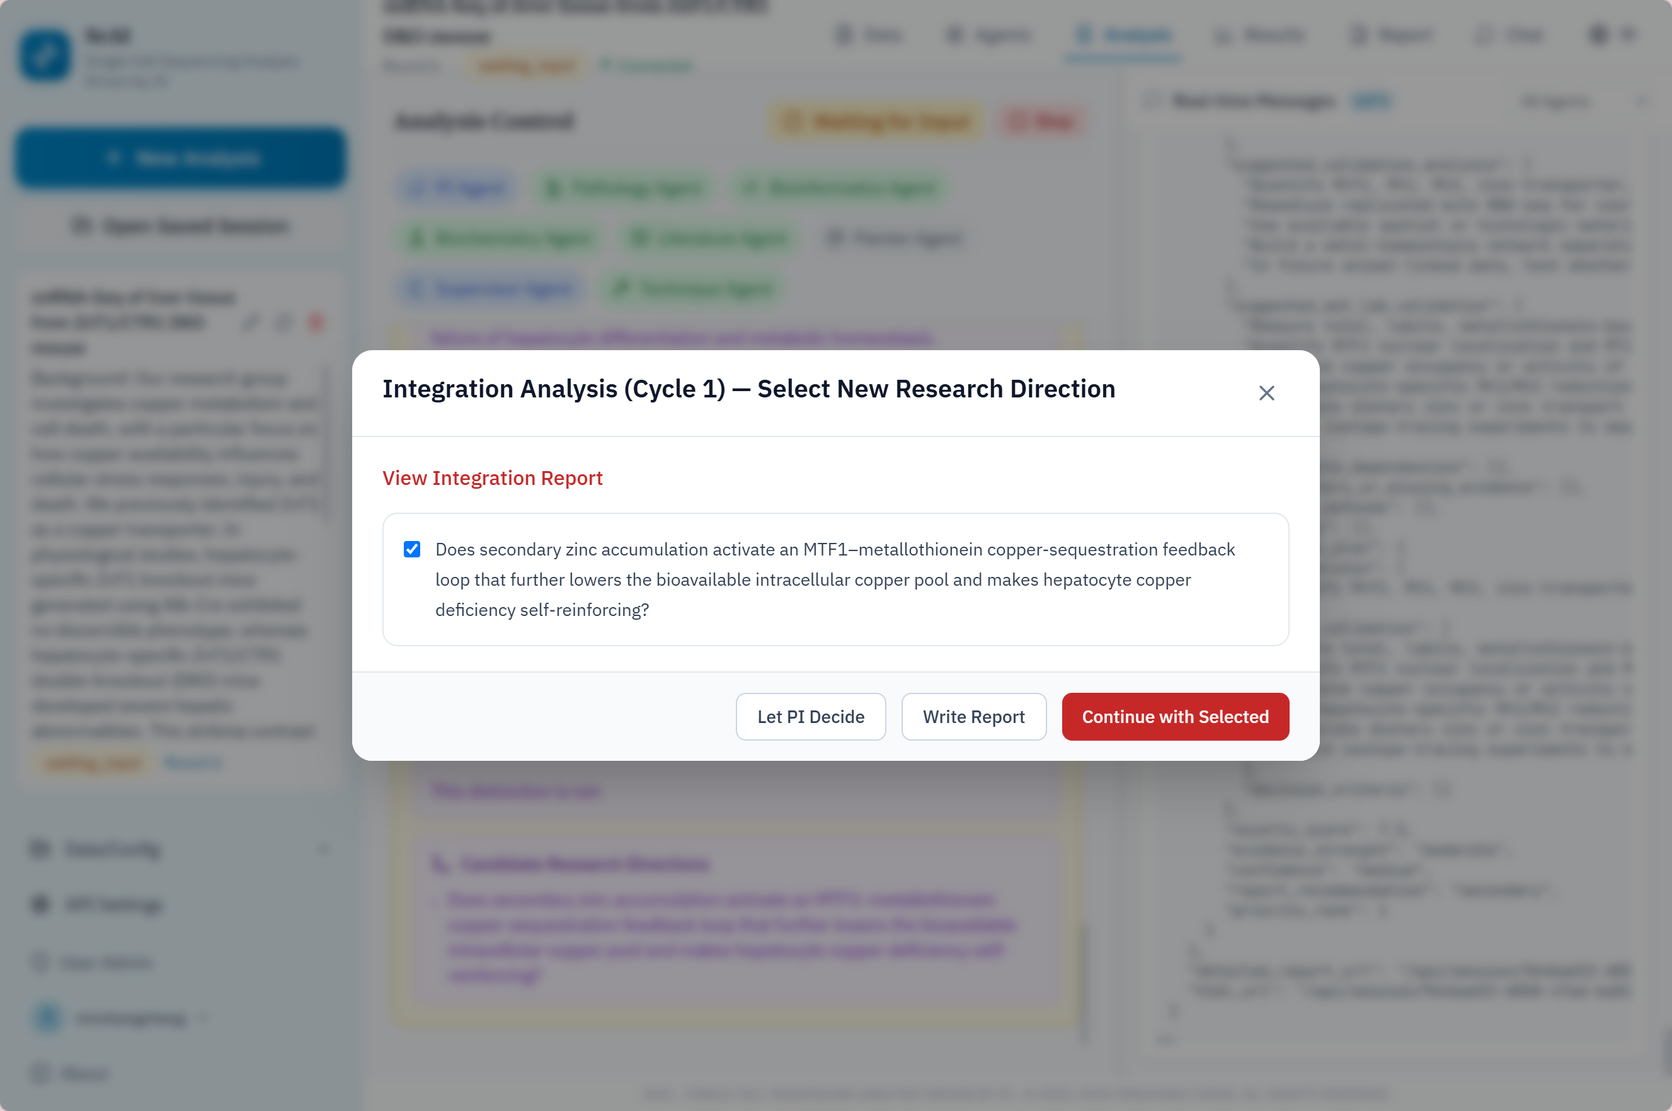
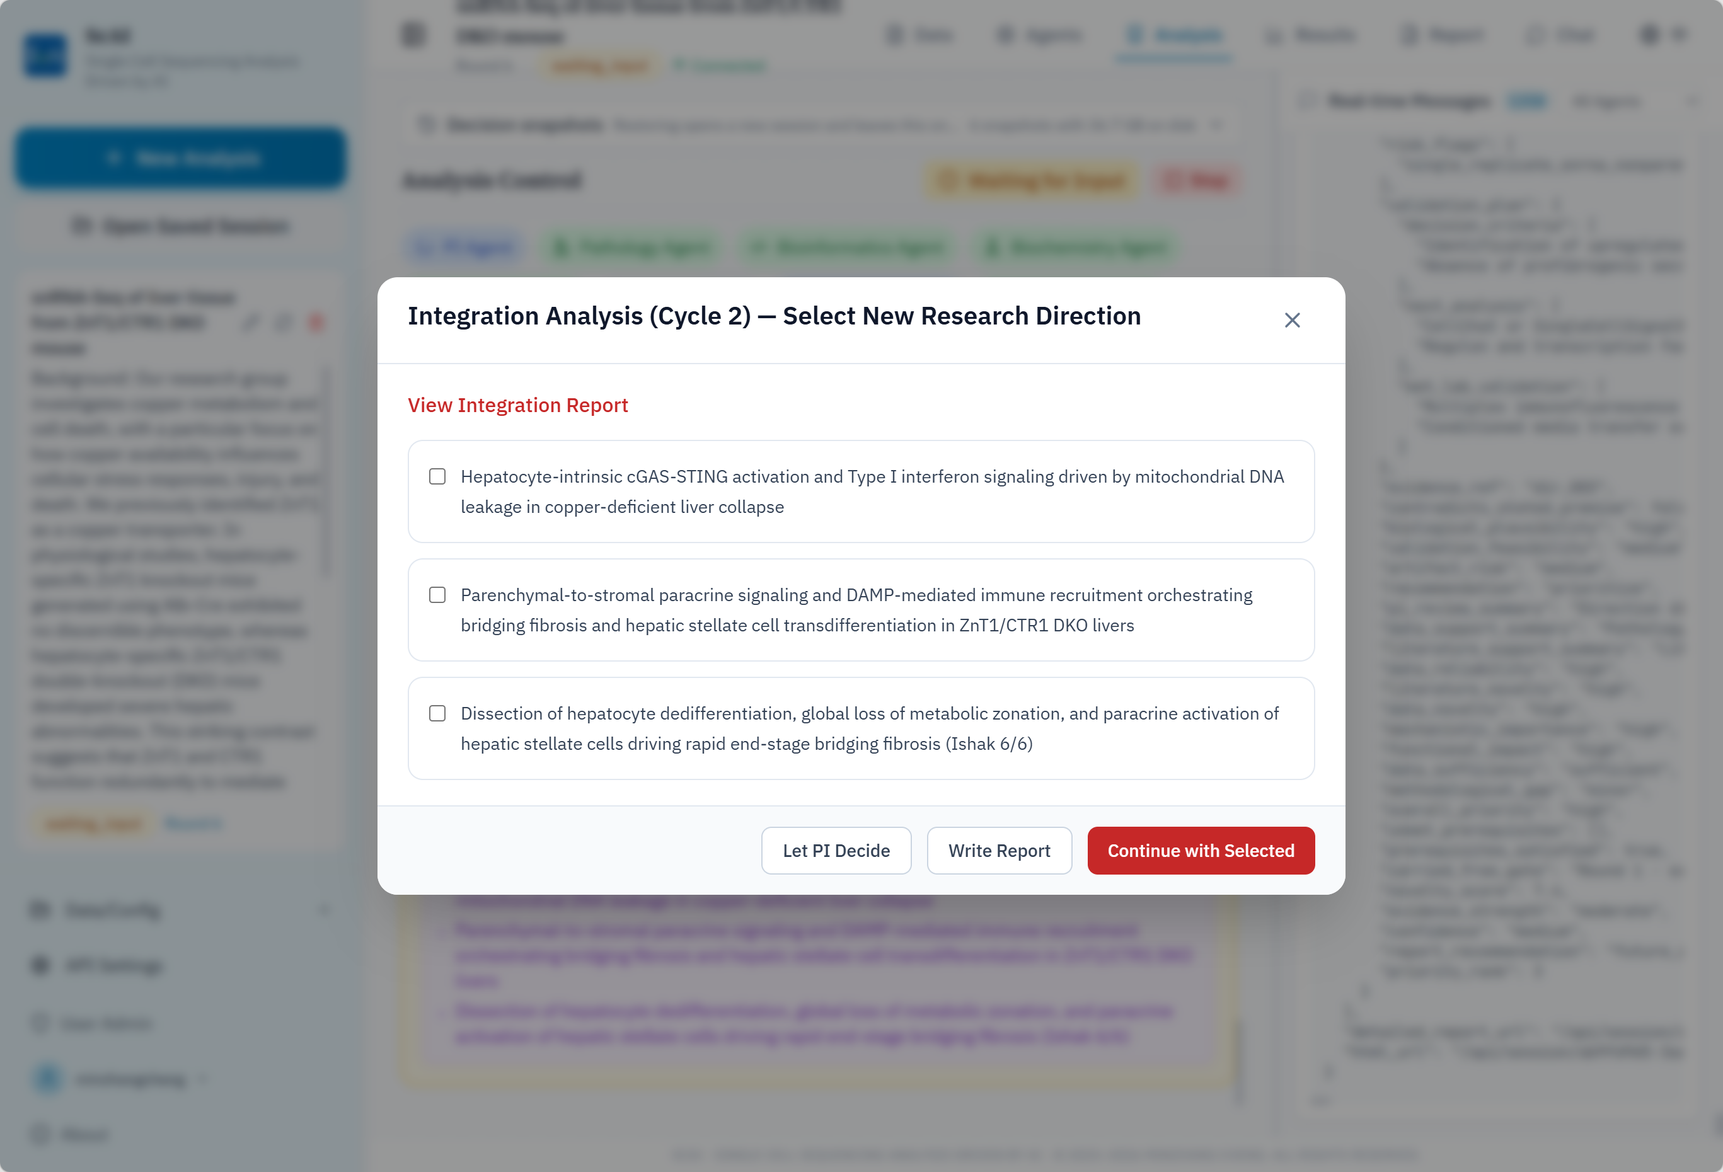
ver 0.63.14

diff --git a/backend/constants.py b/backend/constants.py
@@ -5,7 +5,7 @@ action enums, and LLM failure intervention constants.
 """
 from enum import Enum
 
-VERSION = "0.63.13"
+VERSION = "0.63.14"
 
 
 # ── Authoritative graph node registry — single source of truth ─────

diff --git a/clients/python/scai_client/__init__.py b/clients/python/scai_client/__init__.py
@@ -45,4 +45,4 @@ __all__ = [
 ]
 # The client follows the application release version rather than maintaining
 # an independent release line.
-__version__ = "0.63.13"
+__version__ = "0.63.14"

diff --git a/docs/user-guide.md b/docs/user-guide.md
@@ -159,14 +159,20 @@ While the analysis runs:
 
 ### Respond to model or agent failures
 
-If an agent or model repeatedly fails, ScAI can present **Retry**, **Modify Agent Settings**, **Skip**, and **Terminate**, depending on the failure:
+If an upstream model provider returns an error, a connection fails, or a model produces unusable output, ScAI may pause the analysis and open a failure decision dialog.
+
+![Model failure details and recovery actions](images/error_processing.png)
+
+Check the **Agent**, **Model**, and **LLM Server**, then expand **Error Details** to identify the cause. The screenshot shows an incomplete plan JSON response; provider availability, credentials, and output-format problems require different corrections. The dialog title can vary with the failure type, for example **LLM Call Failed** or **Invalid Model Output**.
+
+Choose the appropriate action from those offered:
 
 - **Retry** reruns the failed operation. Use it for a transient provider or connectivity problem, or after correcting the relevant agent settings.
 - **Modify Agent Settings** opens the configuration needed to correct a model, endpoint, credential, or disabled core agent. Save the correction before returning to retry the step.
 - **Skip** continues without that operation's result. Use it only if the missing contribution is nonessential, and record the resulting limitation.
-- **Terminate** ends the workflow. Use it when continuing would be scientifically invalid, unsafe, or unnecessarily costly.
+- **Terminate Analysis** ends the workflow. Use it when continuing would be scientifically invalid, unsafe, or unnecessarily costly.
 
-Some failure dialogs automatically choose **Skip** when a finite timer expires. Address failures promptly, and use manual wait when skipping a core or scientifically essential step would invalidate the analysis. Marker-resource and species-resolution dialogs may offer different actions; follow the specific dialog rather than assuming every failure has the same options.
+These failure decisions do not use the routine **Round Wait Time** to automatically skip a failed operation. ScAI may first make a limited number of automatic retries for retryable failures; unresolved failures then wait for an explicit user action. Closing the dialog leaves the failure unresolved; click the corresponding failure badge in the analysis controls to reopen it. Marker-resource and species-resolution dialogs may offer different actions; follow the specific dialog rather than assuming every failure has the same options.
 
 ## Human-in-the-Loop Decisions
 
@@ -206,7 +212,13 @@ You can confirm a cluster, edit its label, and then confirm all annotations. In 
 
 ![Editing a proposed cell annotation](images/cell-annot-modify.png)
 
-Select **Request More Analysis** when the evidence is insufficient. Describe a bounded supplementary task, such as comparing marker expression for two plausible labels, checking cluster-specific differential expression, or consulting relevant literature. Reassess the updated evidence before confirming. Annotation labels remain analytical interpretations and should be validated independently when they support a central claim.
+Select **Request More Analysis** when the evidence is insufficient. This opens **Request Supplementary Analysis** while you are reviewing cell annotations.
+
+![Requesting supplementary analysis during cell annotation review](images/addition_analysis.png)
+
+Describe a bounded supplementary task, including the relevant cluster IDs and the question to resolve, such as comparing marker expression for two plausible labels, checking cluster-specific differential expression, or consulting relevant literature. Select **Submit** to send the request; the PI coordinates agents to perform the supplementary work and update the review report. **Cancel** returns to annotation review without submitting the request.
+
+Reassess the updated evidence before confirming. Annotation labels remain analytical interpretations and should be validated independently when they support a central claim.
 
 ### Select research directions
 
@@ -245,9 +257,15 @@ The browser countdown pauses when you begin typing or add a file, and it can als
 
 After a batch of research directions, ScAI may synthesize cross-direction evidence and ask whether to continue with integration candidates or finalize the analysis.
 
-![Cross-direction integration review](images/integrate.png)
+![Integration research-direction selection and report controls](images/integrate.png)
 
-Review the integration report when available. Select one or more candidates and continue, finalize the current analysis, or let the PI decide. If the integration countdown expires, the PI-decision path is used. Treat cross-direction links as hypotheses unless the data and external evidence establish otherwise.
+Select **View Integration Report** when available to review the synthesis before choosing the next action:
+
+- **Continue with Selected**: check one or more candidate directions, then continue with those directions.
+- **Write Report**: finalize the current analysis and proceed to reporting.
+- **Let PI Decide**: ask the PI to decide whether to continue or finalize.
+
+If the integration countdown expires, the PI-decision path is used. Treat cross-direction links as hypotheses unless the data and external evidence establish otherwise.
 
 ### Go back to an earlier decision
 
@@ -256,7 +274,15 @@ Review the integration report when available. Select one or more candidates and 
 
 If your administrator enabled snapshots, the analysis panel lists a restore point taken immediately before each decision above: confirming the cell annotation, choosing a research direction, choosing again after integration, and accepting a round.
 
+Open **Analysis** and expand **Decision snapshots**. The header shows the snapshot count and total disk usage; each entry shows its round, decision point, capture time, size, and importance rank.
+
+![Decision snapshots in Analysis with restore and delete controls](images/snapshot.png)
+
 **Restore into a new session** opens a copy of the analysis as it stood just before that decision, waiting at the same dialog so you can answer differently. The session you are looking at is not changed, keeps running, and keeps all of its snapshots — so you can try a second direction without giving up the first.
+
+Wait for the new session to be created and opened, then review the decision dialog and submit your choice. If the list shows **Restored into** links, use them to reopen sessions previously created from that snapshot.
+
+Select **Delete** beside a snapshot to remove that restore point when it is no longer needed. Deletion is immediate, and that snapshot can no longer be used for restoration. The current analysis, other snapshots, and sessions already restored from it remain available.
 
 Three things a restored session does not have. It carries no reports; those belong to the run that produced them, and the restored copy has not reached that point. It may be missing values the original could not serialise, which the list shows as a count. And whatever automatic skip time the original was running under, the restored session waits for you rather than deciding on its own.
 
@@ -297,6 +323,22 @@ Before sharing or citing a report:
 - State limitations introduced by skipped agents, failed steps, missing modalities, uncertain annotations, or incomplete metadata.
 - Separate exploratory associations from validated mechanisms and causal conclusions.
 - Have an appropriately qualified researcher review the final scientific interpretation.
+
+## Discuss Results and Request Follow-up Work in Chat
+
+Open **Chat** in the current session to ask the PI about the analysis, clarify findings, or request follow-up work based on existing results. You can also use it after the main analysis has completed.
+
+![Chat workspace with a follow-up request and real-time agent activity](images/chat.png)
+
+Describe the question, relevant results or figures, requested output, and any limits on the work. For example, ask the PI to compare two interpretations, check a particular result, or prepare an additional figure from existing data. The PI can answer directly or coordinate specialist agents when the request requires analysis.
+
+Use the composer controls as follows:
+
+- Enter your message and select **Send**, or press **Enter**. Use **Shift+Enter** for a new line.
+- Use the paperclip to attach supplementary files. The **PI (auto-dispatch)** selector sets the default target for new attachments; you can choose a specialist and review each file's agent, group, sample, and data type before sending.
+- Follow the conversation and the **Real-time Messages** panel to inspect agent activity and execution output. While a request is running, the red stop button can stop the current chat request.
+
+Review any new findings and figures against the underlying evidence before using them in a report.
 
 ## Practical Checklist and Troubleshooting
 

diff --git a/docs/user-guide-cn.md b/docs/user-guide-cn.md
@@ -159,14 +159,20 @@ ScAI 会依次推进多个协同阶段。早期探索通常侧重数据检查、
 
 ### 响应模型或智能体失败
 
-如果智能体或模型反复失败，根据失败类型，ScAI 可提供 `Retry`（重试）、`Modify Agent Settings`（修改智能体设置）、`Skip`（跳过）和 `Terminate`（终止）：
+如果上游模型提供商返回错误、网络连接失败，或模型生成了无法使用的输出，ScAI 可能暂停分析并打开失败处理对话框。
+
+![模型失败详情和处理操作](images/error_processing.png)
+
+请检查 `Agent`（智能体）、`Model`（模型）和 `LLM Server`（LLM 服务器），然后展开 `Error Details`（错误详情）确定原因。截图展示的是计划 JSON 响应不完整；提供商服务可用性、凭据和输出格式问题需要采取不同的修正措施。对话框标题会随失败类型变化，例如 `LLM Call Failed`（LLM 调用失败）或 `Invalid Model Output`（模型输出无效）。
+
+请从对话框提供的操作中选择合适的处理方式：
 
 - `Retry`：重新运行失败的操作。适用于提供商或网络连接的暂时性问题，或已修正相关智能体设置后。
 - `Modify Agent Settings`：打开修正模型、端点、凭据或被禁用核心智能体所需的配置。保存修正后，再返回并重试该步骤。
 - `Skip`：在缺少该操作结果的情况下继续。仅当缺失内容并非必要时使用，并应记录由此造成的局限性。
-- `Terminate`：结束工作流。当继续分析会导致科学上无效、不安全或不必要的成本时使用。
+- `Terminate Analysis`（终止分析）：结束工作流。当继续分析会导致科学上无效、不安全或不必要的成本时使用。
 
-某些失败对话框会在有限计时器到期时自动选择 `Skip`。请及时处理失败；如果跳过核心步骤或科学上必不可少的步骤会使分析无效，请使用手动等待。标志物资源和物种判定对话框可能提供不同操作；请遵循具体对话框，而不要假设所有失败都具有相同选项。
+这些失败处理决策不会依据常规的 `Round Wait Time` 自动跳过失败操作。对于可重试的错误，ScAI 可能先进行有限次数的自动重试；仍未解决的失败随后会等待用户明确选择处理方式。关闭对话框后，失败仍未解决；可点击分析控制区域中对应的失败状态标记重新打开。标志物资源和物种判定对话框可能提供不同操作；请遵循具体对话框，而不要假设所有失败都具有相同选项。
 
 ## 人机协同决策
 
@@ -206,7 +212,13 @@ ScAI 会依次推进多个协同阶段。早期探索通常侧重数据检查、
 
 ![编辑建议的细胞注释](images/cell-annot-modify.png)
 
-证据不足时，请选择 `Request More Analysis`（请求更多分析）。描述一个边界明确的补充任务，例如比较两个合理标签的标志物表达、检查聚类特异性差异表达，或查阅相关文献。确认前应重新评估更新后的证据。注释标签仍属于分析性解释；如果它们支撑核心结论，应进行独立验证。
+证据不足时，请选择 `Request More Analysis`（请求更多分析）。这会在细胞注释审阅过程中打开 `Request Supplementary Analysis`（请求补充分析）对话框。
+
+![在细胞注释审阅过程中请求补充分析](images/addition_analysis.png)
+
+请描述一个边界明确的补充任务，注明相关聚类 ID 和需要解决的问题，例如比较两个合理标签的标志物表达、检查聚类特异性差异表达，或查阅相关文献。选择 `Submit`（提交）发送请求，PI 会协调智能体执行补充工作并更新审阅报告。选择 `Cancel`（取消）则返回注释审阅，不提交请求。
+
+确认前应重新评估更新后的证据。注释标签仍属于分析性解释；如果它们支撑核心结论，应进行独立验证。
 
 ### 选择研究方向
 
@@ -245,9 +257,15 @@ ScAI 会依次推进多个协同阶段。早期探索通常侧重数据检查、
 
 完成一批研究方向后，ScAI 可能会综合跨方向证据，并询问是继续研究整合候选方向，还是完成当前分析。
 
-![跨方向整合审阅](images/integrate.png)
+![整合研究方向选择和报告操作](images/integrate.png)
 
-如果有整合报告，请进行审阅。选择一个或多个候选方向并继续、完成当前分析，或让 PI 决定。如果整合倒计时结束，将采用 PI 决策路径。除非数据和外部证据能够证实，否则应将跨方向关联视为假设。
+如果提供 `View Integration Report`（查看整合报告），请先打开并审阅综合结果，再选择后续操作：
+
+- `Continue with Selected`（继续所选方向）：勾选一个或多个候选方向，然后继续研究这些方向。
+- `Write Report`（撰写报告）：完成当前分析并进入报告生成流程。
+- `Let PI Decide`（由 PI 决定）：请 PI 决定继续分析还是完成当前分析。
+
+如果整合倒计时结束，将采用 PI 决策路径。除非数据和外部证据能够证实，否则应将跨方向关联视为假设。
 
 ### 回到更早的决策
 
@@ -256,7 +274,15 @@ ScAI 会依次推进多个协同阶段。早期探索通常侧重数据检查、
 
 如果管理员启用了快照，分析面板会列出上述每个决策**之前**留下的还原点：确认细胞注释、选择研究方向、整合分析后再次选择方向、验收本轮结果。
 
+打开 `Analysis`（分析）页面并展开 `Decision snapshots`（决策快照）。标题栏显示快照数量和总磁盘占用；每条记录显示轮次、决策节点、捕获时间、大小和重要性排序。
+
+![分析页面中的决策快照及恢复、删除操作](images/snapshot.png)
+
 `Restore into a new session`（恢复到新会话）会打开该决策之前那一刻的分析副本，并停在同一个对话框上，供您做出不同的选择。当前正在查看的会话不会有任何改动，仍可继续运行，其全部快照也都保留 —— 因此您可以在不放弃第一个方向的前提下尝试第二个。
+
+请等待新会话创建并打开，再审阅决策对话框并提交选择。如果列表显示 `Restored into`（已恢复为）链接，可通过它重新打开此前从该快照创建的会话。
+
+不再需要某个还原点时，选择该快照旁的 `Delete`（删除）。删除会立即执行，此后无法再通过该快照恢复。当前分析、其他快照和此前从该快照恢复出的会话仍然可用。
 
 恢复出的会话有三点需要注意。它不包含报告，因为报告属于生成它们的那次运行，而恢复出的副本尚未走到那一步。它可能缺少原会话无法序列化的值，列表中会给出数量。此外，无论原会话设置了怎样的自动跳过时间，恢复出的会话都会等待您来决定，而不会自行决定。
 
@@ -297,6 +323,22 @@ ScAI 会依次推进多个协同阶段。早期探索通常侧重数据检查、
 - 说明跳过智能体、步骤失败、模态缺失、注释不确定或元数据不完整所造成的局限性。
 - 区分探索性关联与已验证的机制及因果结论。
 - 请具备相应资质的研究人员审阅最终科学解释。
+
+## 在 Chat 中讨论结果和请求后续工作
+
+在当前会话中打开 `Chat`（聊天），向 PI 询问分析过程、澄清研究发现，或基于已有结果请求后续工作。主分析完成后也可以使用此页面。
+
+![包含后续分析请求和智能体实时活动的 Chat 工作区](images/chat.png)
+
+请说明问题、相关结果或图形、期望输出以及工作范围限制。例如，请 PI 比较两种解释、核查某项结果，或利用已有数据补充图形。PI 可以直接回答，也可以在请求需要分析时协调专业智能体执行。
+
+输入区域的操作方式如下：
+
+- 输入消息后选择 `Send`（发送），或按 **Enter** 发送。使用 **Shift+Enter** 换行。
+- 使用回形针按钮添加补充文件。`PI (auto-dispatch)`（PI 自动分派）选择器设置新附件的默认目标智能体；也可选择专业智能体，并在发送前核对每个文件的智能体、组别、样本和数据类型。
+- 查看对话和右侧 `Real-time Messages`（实时消息）面板，检查智能体活动和执行输出。请求运行期间，可使用红色停止按钮停止当前聊天请求。
+
+将新发现和图形用于报告前，请根据底层证据进行审阅。
 
 ## 实用核对清单与故障排除
 

diff --git a/docs/HANDOVER.md b/docs/HANDOVER.md
@@ -2,7 +2,7 @@
 
 Architecture, module map, and developer guide for contributors. For end-user workflow, see the [User Guide](user-guide.md); for installation and the project overview, see the [README](../README.md).
 
-**Version**: 0.63.13 · **Last updated**: 2026-10-01
+**Version**: 0.63.14 · **Last updated**: 2026-10-01
 
 ## 1. Runtime Architecture
 
@@ -369,6 +369,15 @@ identify the annotation failure and omit unrelated model/server configuration.
 Detailed release notes for every version are available through `git log` and release tags. For versions before 0.30.1, changes are summarized by major version group; from 0.30.1 onward, each version is documented individually. The summary below highlights the architectural arc of the project.
 
 **0.63.x — (2026-09-28 onward)**
+
+- `0.63.14` — Updates the English and Chinese user guides with screenshots and
+  instructions for Chat follow-up requests, decision-snapshot restoration and
+  deletion, supplementary analysis during cell-annotation review, and model or
+  provider failure recovery. Refreshes the integration-review screenshot and
+  documents its report, direction-selection, and PI-decision controls. Failure
+  guidance distinguishes provider errors from invalid model output and explains
+  explicit resolution of unresolved failures. Synchronizes application, client,
+  and documentation versions and administrator build examples.
 
 - `0.63.13` — Corrects planner JSON/schema failure attribution. Host-generated
   diagnostics remain distinct from model-supplied `parse_error` fields through

diff --git a/docs/admin-manual-zh.md b/docs/admin-manual-zh.md
@@ -316,8 +316,8 @@ docker build -t ghcr.io/minzhangcheng/scai:latest .
 ```
 
 ```bash
-./build.sh --version 0.63.13
-./build.sh --version 0.63.13 --push
+./build.sh --version 0.63.14
+./build.sh --version 0.63.14 --push
 ```
 
 如果未指定 `--version`，辅助脚本使用 `git describe --tags --abbrev=0` 返回的最新 Git 标签；如果不存在标签，则使用 `latest`。`--push` 会将两个标签推送到 `ghcr.io/minzhangcheng/scai`；使用前请先向该注册表进行 Docker 身份验证。该辅助脚本不接受注册表、镜像名称、平台或构建参数 flags。

diff --git a/docs/admin-manual.md b/docs/admin-manual.md
@@ -358,8 +358,8 @@ The release helper always builds both the selected tag and `latest`:
 ```
 
 ```bash
-./build.sh --version 0.63.13
-./build.sh --version 0.63.13 --push
+./build.sh --version 0.63.14
+./build.sh --version 0.63.14 --push
 ```
 
 Without `--version`, the helper uses the newest Git tag returned by `git describe --tags --abbrev=0`, or `latest` if none exists. `--push` pushes both tags to `ghcr.io/minzhangcheng/scai`; authenticate Docker to that registry before using it. The helper does not accept registry, image-name, platform, or build-argument flags.

diff --git a/README.md b/README.md
@@ -2,7 +2,7 @@
 
 ScAI is a general-purpose, multi-agent platform for biomedical analysis. It coordinates sequencing analysis, pathology imaging, biochemical indicators, literature research, and human review in one iterative workflow. Models can be configured per agent through OpenAI-compatible endpoints, Google APIs, or local deployments.
 
-**Version**: 0.63.13 | **License**: Apache 2.0
+**Version**: 0.63.14 | **License**: Apache 2.0
 
 ## Core Capabilities
 
